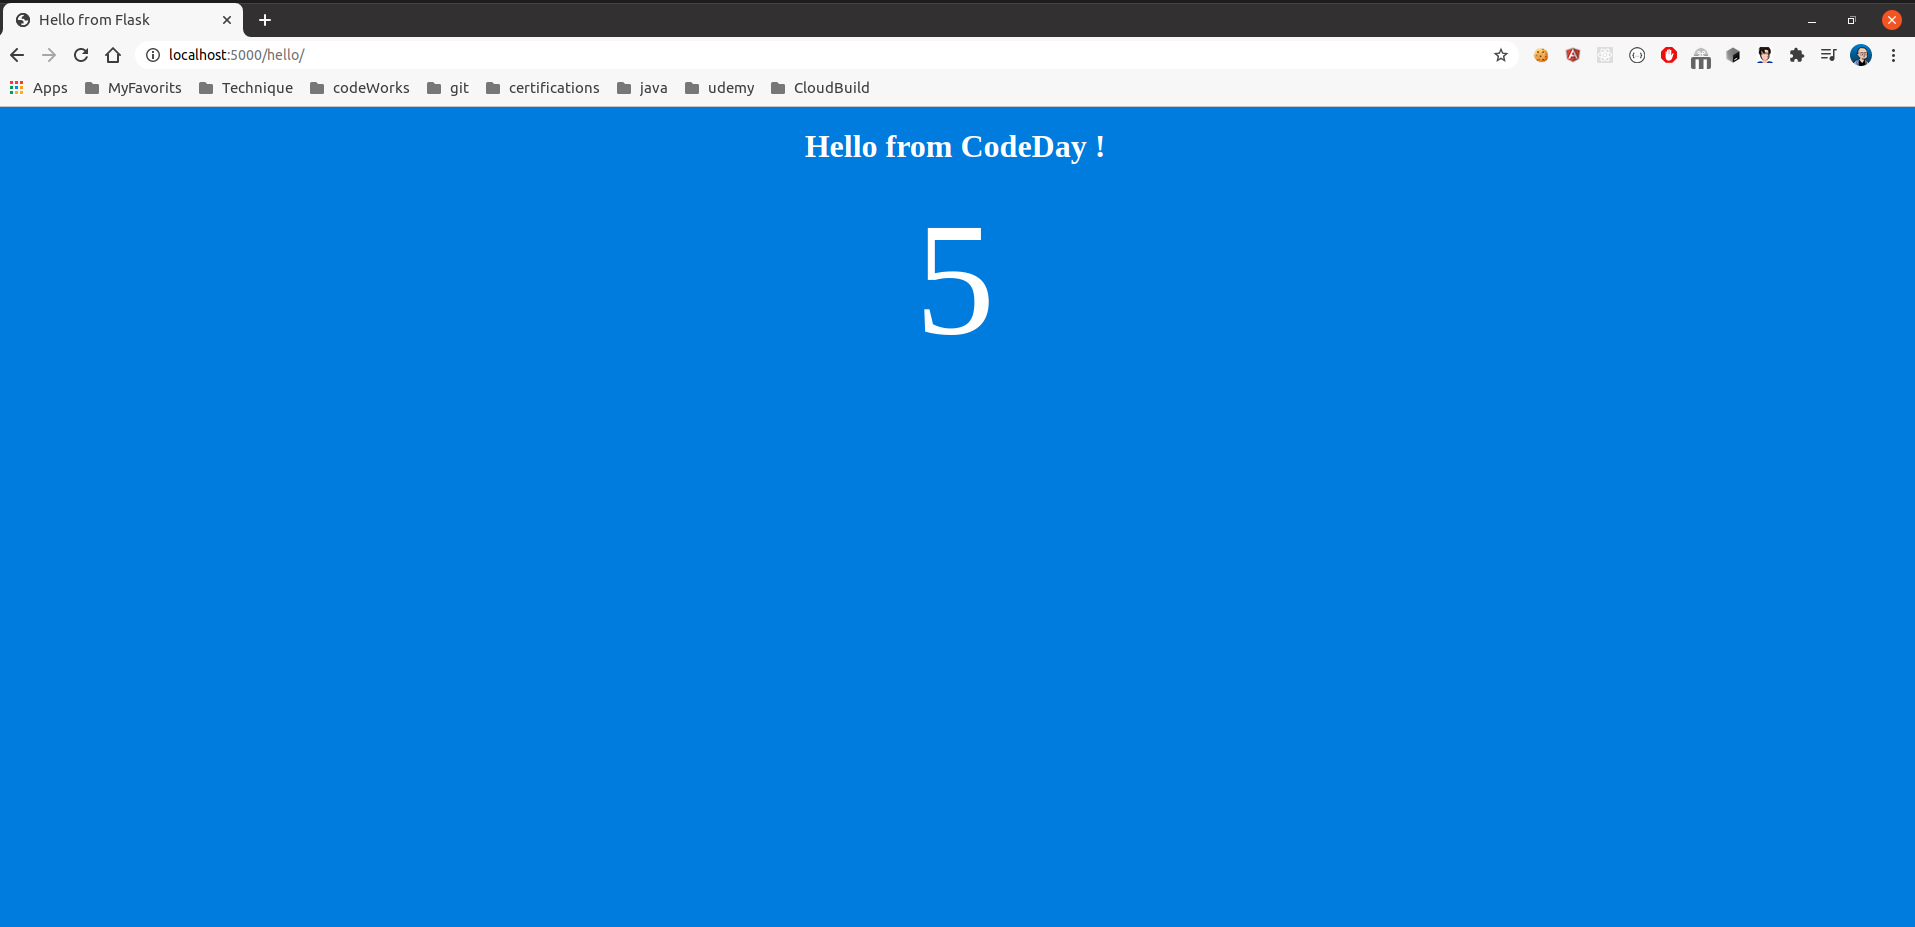
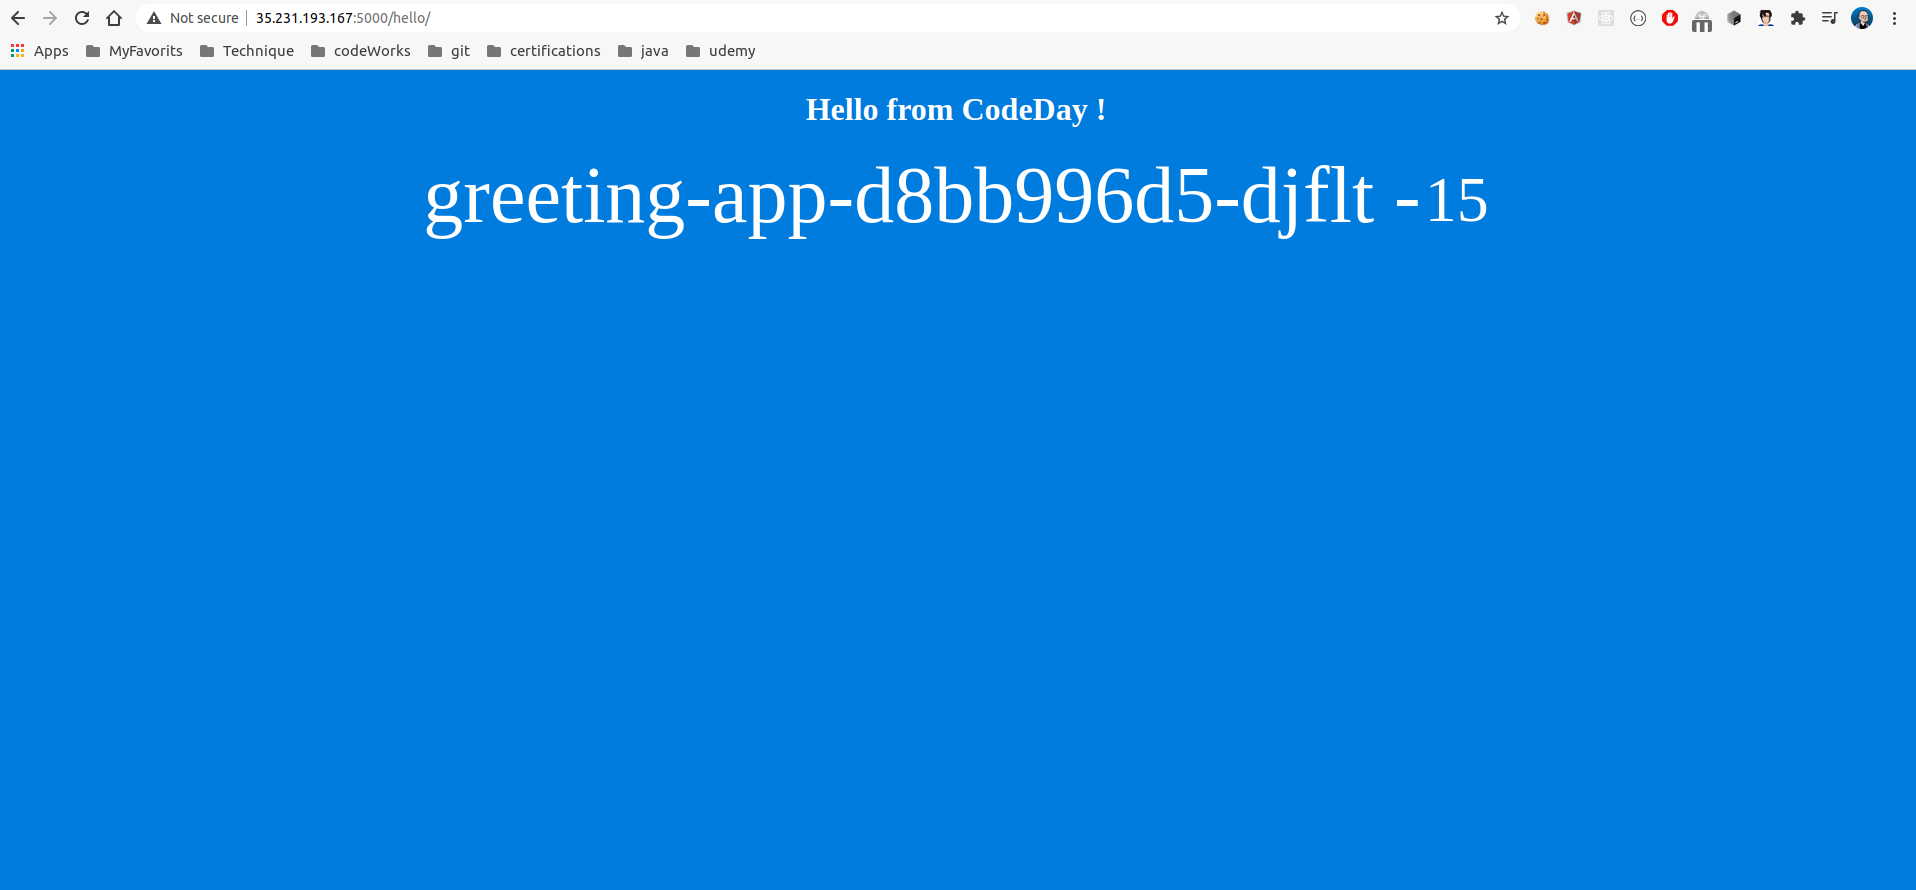
moving to cloud : GKE

Changed region(s): [[0.0, 0.0, 1.0, 0.364]]

diff --git a/greeting-app/src/templates/hello.html b/greeting-app/src/templates/hello.html
@@ -10,7 +10,10 @@
         {% else %}
         <h1>Hello from CodeDay !</h1>
         {% endif %}
-        <div class="counter">{{ count }}</div>
+        <div class="container">
+            <div class="host">{{ host }} -</div>
+            <div class="counter">{{ count }}</div>
+        </div>
     </body>
 
 </html>

diff --git a/greeting-app/src/static/css/main.css b/greeting-app/src/static/css/main.css
@@ -4,6 +4,17 @@ body {
     text-align: center;
 }
 
+.container .host,
+.container .counter {
+    display: inline-block;
+    vertical-align: middle;
+}
+
+.host {
+    font-size: 5em;
+}
+
 .counter {
-    font-size: 10em;
+    font-size: 4em;
+    margin-top: 10px;
 }

diff --git a/greeting-app/src/app.py b/greeting-app/src/app.py
@@ -1,13 +1,18 @@
 from flask import Flask
 from flask import render_template
+import socket
+
 app = Flask(__name__)
 
 count = 0
 
-@app.route('/hello/')
-@app.route('/hello/<name>')
+@app.route('/hello/', methods=["GET"])
+@app.route('/hello/<name>', methods=["GET"])
 def hello(name=None):
     global count
     count += 1
 
-    return render_template('hello.html', name=name, count=count)
+    return render_template('hello.html', host=socket.gethostname(), name=name, count=count)
+
+if __name__ == '__main__':
+    app.run(host='0.0.0.0')

diff --git a/gke/readme.md b/gke/readme.md
@@ -8,16 +8,31 @@
 - Provide Name & Address
 - Credit Card Information
 
-2- Initialize Tooling
+2- Create new GCP Project
 ===
 
-- Enable Kubernetes Engine Api if it's not yes done !
+```bash
+# Get billing accounts list
+$> gcloud alpha billing accounts list
+# Create a new project named 'gke-demo'
+$> gcloud projects create gke-demo --organization=377598488349
+# Grap the 'gke-demo' ID from the projects list
+$> gcloud projects list
+# Link the project to the billing account
+$> gcloud alpha billing accounts projects link PROJECT_ID --account-id=0150EE-171E17-3E357F
+# Check the console if you want !
+```
+
+3- Initialize Tooling
+===
+
+- Enable Kubernetes Engine API (if it's not yes done)
     
     * From the web-based console
 
 - Install Google Cloud SDK
     
-    * Make sure Python is installed in your machine
+    * Make sure that Python is installed in your machine
     
         ```bash
         $> curl -O https://dl.google.com/dl/cloudsdk/channels/rapid/downloads/google-cloud-sdk-319.0.0-linux-x86.tar.gz
@@ -28,116 +43,167 @@
     * Some new commands
 
         ```bash
+        # Configure gcloud to match account / project / zone to use 
         $> gcloud init
+        # Display projects list
         $> gcloud projects list
+        # Export a new environment variable named `PROJECT_ID`
         $> export PROJECT_ID=PROJECT_ID_VALUE
+        # Checl all of the configuration
+        $> gcloud config
         ```
 
-    * Configure gcloud to match account / project / region to use  
-
-
-3- Create your GKE Cluster
+4- Google Container Registry
 ===
 
-- Create an image
+- Create the Docker Image
  
-    **HOST_NAME/PROJECT_ID/IMAGE_NAME:TAG**
+    The tag must follow a certain format : **HOST_NAMEPROJECT_ID/IMAGE_NAME:TAG**
     
     **HOST_NAME** : host for Google Container Registry that will store the image
     
-    **PROJECT_ID** : Project Id 
+    **PROJECT_ID** : Project Id on GCP
 
     **IMAGE_NAME** : Desired Docker Image Name
     
     **TAG** : Tag Number
         
     ```bash 
-        # Build new image 
-        $> docker build -t gcr.io/demo-project-123/demo:1.0 .
-        # Build new image from a tag
-        $> docker tag 8e2324345 gcr.io/demo-project-123/demo:1.0 .
+    # Build new image 
+    $> docker build -t gcr.io/${PROJECT_ID}/greeting-app:1.0.0 .
+    # Build new image from a tag
+    $> docker tag 8e2324345 gcr.io/${PROJECT_ID}/greeting-app:1.0.0 .
     ```
+- Launch the Docker image
+
+    ```bash
+    # command to launch the docker image
+    docker run --publish 5000:5000 --detach --name greeting_app gcr.io/${PROJECT_ID}/greeting-app:1.0.0
+    # visit the logs
+    docker logs <CONTAINER_ID> -f
+    ```
+
 - Login
 
     ```bash
-        $> gcloud auth configure-docker
+    # set up a credential helper
+    $> gcloud auth configure-docker
     ```
+
 - Push the image
+    
     ```bash
-        $> docker push gcr.io/demo-project-123/demo:1.0
+    $> docker push gcr.io/${PROJECT_ID}/greeting-app:1.0.0
     ```
+
+5- Create and interact with your GKE Cluster
+===
+
 - Create a cluster
     
     ```bash
-        $> gcloud container cluster create demo-cluster --num-nodes=3
+    # Get the list of all regions
+    $> gcloud compute zones list
+    # I'm going to start with 2 nodes
+    $> gcloud container clusters create codeday-cluster --num-nodes=2
+    ```
+
+- Some Kubectl commands
+
+    ```bash
+    # Check nodes in the Cluster
+    $> kubectl get nodes
+    # Check Pods
+    $> kubectl get pods
     ```
 - Create Deployment & Service
     
     ```bash
-        $> kubectl create deployment demp-app --image=gcr.io/demo-project-123/demo:1.0
+    $> kubectl create deployment greeting-app --image=gcr.io/${PROJECT_ID}/greeting-app:1.0.0
     ```
+
 - Create a LoadBalancer service
 
     ```bash
-        $> kubectl expose deployment demo-app --type=LoadBalancer --port 5000 --target-port 5000
+    $> kubectl expose deployment greeting-app --type=LoadBalancer --port 5000 --target-port 5000
     ```
 
-4- Scaling & updating your GKE Cluster
+6- Scaling & updating your GKE Cluster
 ===
 
 - Scale Pods
 
     ```bash
-        $> kubectl scale deployment  demo-app --replicas=3
+    $> kubectl scale deployment  greeting-app --replicas=3
     ```
    
 - Scale Nodes
     
     ```bash
-        $> gcloud container clusters resize demo-cluster --num-nodes 5
+    $> gcloud container clusters resize codeday-cluster --num-nodes 1
     ```
 
 - Updating our application
     
     ```bash
-        $> docker build -t gcr.io/demo-project-123/demo:2.0 .
-        $> docker push gcr.io/demo-project-123/demo:2.0
-        $> kubectl set image deployment/demo-app demo=gcr.io/demo-project-123/demo:2.0
+    $> docker build -t gcr.io/${PROJECT_ID}/greeting-app:2.0.0 .
+    $> docker push gcr.io/${PROJECT_ID}/greeting-app:2.0.0
+    $> kubectl set image deployment/greeting-app greeting-app=gcr.io/${PROJECT_ID}/greeting-app:2.0.0
     ```
 
-6- Browsing the GKE Web Console
+7- Browsing the GKE Web Console
 ===
 
 - Monitoring
-    - Monitoring -> Stackdriver
-    - Resources > Kuberenetes Engine
-    - Compute -> Kubernetes Engine
+    - Monitoring -> Dashboards -> GKE
 
 - Cluster
+    - Compute -> Kubernetes Engine
 
 - Registry
     - Container Registry Menu
 
 - Billing
+    - Reports
 
-7- Deleting your GKE Cluster
+8- Deleting your GKE Cluster
 ===
 
 - delete Service
     
     ```bash
-        $> kubectl delete service demo-app
+    $> kubectl delete service greeting-app
     ```
 
 - delete Cluster
     
     ```bash
-        $> gcloud container clusters delete demo-cluster
+    $> gcloud container clusters delete codeday-cluster
     ```
 
 - delete a specific images
 
     ```bash
-        $> gcloud container images delete gcr.io/demo-project-123/demo:1.0
-        $> gcloud container images delete gcr.io/demo-project-123/demo:2.0
+    $> gcloud container images delete gcr.io/${PROJECT_ID}/greeting-app:1.0.0
+    $> gcloud container images delete gcr.io/${PROJECT_ID}/greeting-app:2.0.0
     ```
+
+9- Some useful gcloud commands
+===
+
+```bash
+# Configure your current gcp environment
+$> gcloud init
+# Display projets list
+$> gcloud projects list
+# Set up a credential helper
+$> gcloud auth configure-docker
+# Display regions list
+$> gcloud compute regions list
+# Display zones list
+$> gcloud compute zones list
+# Display clusters list
+$> gcloud container clusters list
+# Display images list
+$> gcloud container images list
+```
